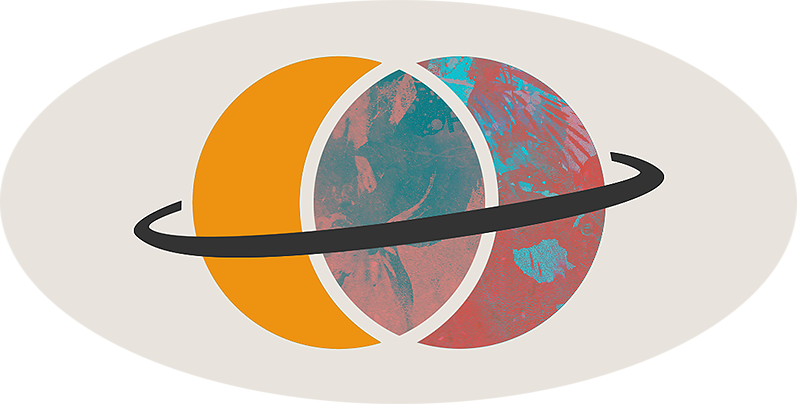
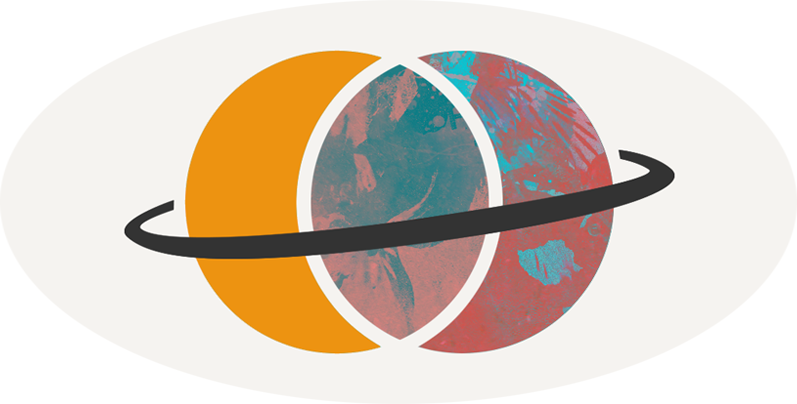
lightened background

Changed region(s): [[0.1506, 0.1188, 0.8733, 0.6238], [0.2108, 0.505, 0.7829, 0.8911]]

diff --git a/index.html b/index.html
@@ -31,7 +31,7 @@
 
 			body {
 				margin: 0;
-				background: #e8e4dd;
+				background: #f5f3ef;
 			}
 
 			h1 {
@@ -110,7 +110,7 @@
 							display: none;
 							position: absolute;
 							top: 38%;
-							right: -190px;
+							right: -5px;
 							width: 190px;
 							padding: 20px;
 							background: #fff;
@@ -146,6 +146,16 @@
 					img.novas {
 						margin: 3em auto -7.7em;
 					}
+			}
+
+			@media screen 
+				and (min-device-width: 1200px) 
+				and (min-width: 1200px) {
+
+					#tsc-box {
+							right: -190px;
+					}
+
 			}
 		</style>
 	</head>
